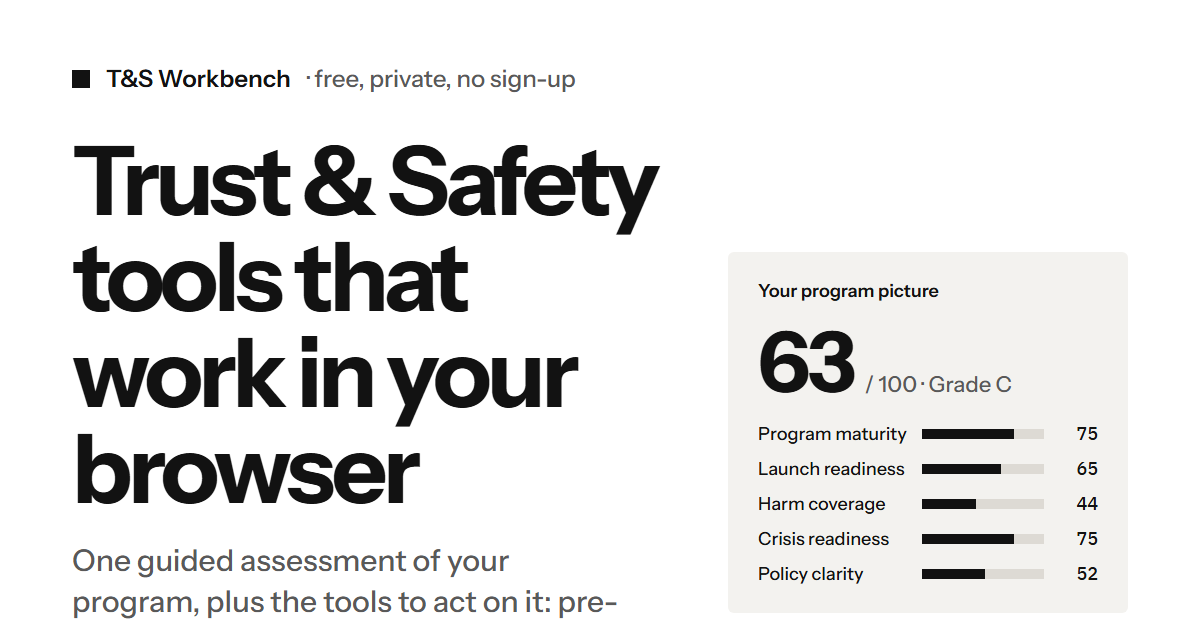
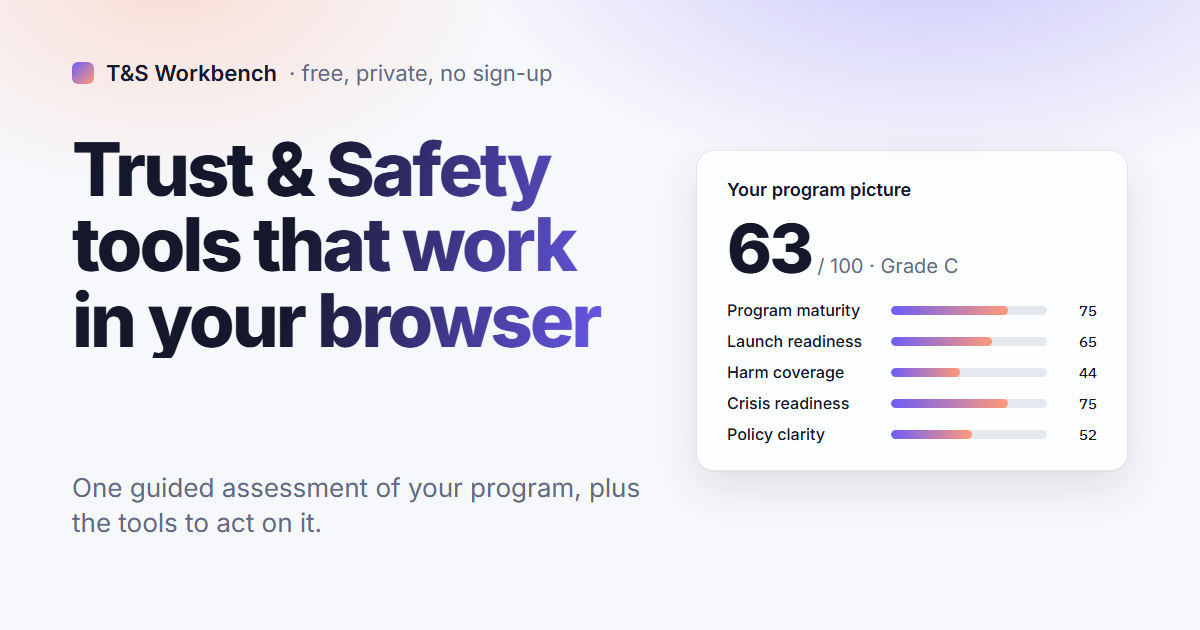
Link-preview cards on the Aurora look, with their HTML sources
docs/og-image.png and the personal site's og-image.png are rendered from tools/screenshots/og-*.html at 1200x630. The workbench card no longer clips its last line.

diff --git a/tools/screenshots/og-workbench.html b/tools/screenshots/og-workbench.html
@@ -1,0 +1,35 @@
+<!doctype html><html lang="en"><head><meta charset="utf-8"><title>og</title>
+<link rel="stylesheet" href="https://fonts.googleapis.com/css2?family=Inter:wght@400;500;600;700;800&family=IBM+Plex+Mono:wght@500&display=swap">
+<style>
+html,body{margin:0;width:1200px;height:630px;overflow:hidden}
+body{font-family:Inter,sans-serif;color:#15172B;background:
+  radial-gradient(760px 420px at 78% -12%, rgba(109,93,246,.32), transparent 62%),
+  radial-gradient(560px 360px at 14% -4%, rgba(255,160,120,.30), transparent 60%),#F7F8FC;position:relative}
+.top{position:absolute;left:72px;top:60px;display:flex;align-items:center;gap:12px;font-size:22px;font-weight:600}
+.top i{width:22px;height:22px;border-radius:6px;background:linear-gradient(135deg,#6D5DF6,#FF9A7A)}
+.top span{color:#636A85;font-weight:400}
+h1{position:absolute;left:72px;top:132px;width:560px;margin:0;font-size:74px;line-height:1.02;letter-spacing:-.04em;font-weight:800;
+  background:linear-gradient(100deg,#15172B 40%,#6D5DF6 100%);-webkit-background-clip:text;background-clip:text;color:transparent}
+p{position:absolute;left:72px;top:470px;width:600px;margin:0;font-size:26px;line-height:1.35;color:#636A85}
+.card{position:absolute;right:72px;top:150px;width:370px;padding:28px 30px 26px;background:rgba(255,255,255,.78);border:1px solid rgba(21,23,43,.10);border-radius:18px;box-shadow:0 1px 1px rgba(21,23,43,.04),0 18px 44px rgba(21,23,43,.10)}
+.card h2{margin:0 0 14px;font-size:18px;font-weight:600}
+.score{font-size:68px;font-weight:800;letter-spacing:-.04em;line-height:1}
+.score small{font-size:20px;font-weight:400;color:#636A85;letter-spacing:0;margin-left:6px}
+.rows{margin-top:18px;display:grid;gap:11px}
+.rows div{display:grid;grid-template-columns:150px 1fr 36px;gap:14px;align-items:center;font-size:16px;font-weight:500}
+.rows i{height:9px;border-radius:999px;background:#E6E8F0;overflow:hidden;display:block}
+.rows i b{display:block;height:100%;border-radius:999px;background:linear-gradient(90deg,#6D5DF6,#FF9A7A);width:var(--w)}
+.rows span{text-align:right;font-family:"IBM Plex Mono",monospace;font-size:15px}
+</style></head><body>
+<div class="top"><i></i>T&amp;S Workbench <span>· free, private, no sign-up</span></div>
+<h1>Trust &amp; Safety tools that work in your browser</h1>
+<p>One guided assessment of your program, plus the tools to act on it.</p>
+<div class="card"><h2>Your program picture</h2><div class="score">63<small>/ 100 · Grade C</small></div>
+<div class="rows">
+<div>Program maturity<i><b style="--w:75%"></b></i><span>75</span></div>
+<div>Launch readiness<i><b style="--w:65%"></b></i><span>65</span></div>
+<div>Harm coverage<i><b style="--w:44%"></b></i><span>44</span></div>
+<div>Crisis readiness<i><b style="--w:75%"></b></i><span>75</span></div>
+<div>Policy clarity<i><b style="--w:52%"></b></i><span>52</span></div>
+</div></div>
+</body></html>

diff --git a/tools/screenshots/og-portfolio.html b/tools/screenshots/og-portfolio.html
@@ -1,0 +1,24 @@
+<!doctype html><html lang="en"><head><meta charset="utf-8"><title>og</title>
+<link rel="stylesheet" href="https://fonts.googleapis.com/css2?family=Inter:wght@400;500;600;700;800&family=IBM+Plex+Mono:wght@500&display=swap">
+<style>
+html,body{margin:0;width:1200px;height:630px;overflow:hidden}
+body{font-family:Inter,sans-serif;color:#15172B;background:
+  radial-gradient(760px 420px at 78% -12%, rgba(109,93,246,.32), transparent 62%),
+  radial-gradient(560px 360px at 14% -4%, rgba(255,160,120,.30), transparent 60%),#F7F8FC;position:relative}
+.top{position:absolute;left:72px;right:72px;top:68px;display:flex;align-items:center;gap:12px;font-size:22px;font-weight:600}
+.top i{width:22px;height:22px;border-radius:6px;background:linear-gradient(135deg,#6D5DF6,#FF9A7A)}
+.top span{margin-left:auto;font-family:"IBM Plex Mono",monospace;font-size:19px;font-weight:500;color:#636A85}
+h1{position:absolute;left:72px;top:160px;margin:0;font-size:104px;line-height:1;letter-spacing:-.045em;font-weight:800;white-space:nowrap;
+  background:linear-gradient(100deg,#15172B 45%,#6D5DF6 100%);-webkit-background-clip:text;background-clip:text;color:transparent}
+p{position:absolute;left:72px;top:300px;width:860px;margin:0;font-size:30px;line-height:1.4;color:#636A85}
+.foot{position:absolute;left:72px;right:72px;bottom:60px;padding-top:26px;border-top:1px solid rgba(21,23,43,.12);display:flex;align-items:center;gap:18px;font-size:22px}
+.foot b{display:flex;align-items:center;gap:10px;font-weight:600}
+.foot b i{width:10px;height:10px;border-radius:50%;background:#1FA971}
+.foot span{color:#636A85}
+.foot em{margin-left:auto;font-style:normal;color:#636A85}
+</style></head><body>
+<div class="top"><i></i>Steven Macchia<span>stevenmacchia.com</span></div>
+<h1>Trust &amp; Safety leader</h1>
+<p>10+ years building Trust &amp; Safety programs from zero to one. Free, open tools for product and safety teams.</p>
+<div class="foot"><b><i></i>Open to roles</b><span>Director · Head of · Senior Trust &amp; Safety</span><em>T&amp;S Workbench · free tools</em></div>
+</body></html>

diff --git a/tools/screenshots/README.md b/tools/screenshots/README.md
@@ -10,3 +10,7 @@ node capture.js vendors.png  # regenerate just one
 ```
 
 Reuses a server on `:8765` or starts one. See `CHROME_PATH`, `PORTFOLIO_IMG_DIR`.
+
+Link-preview cards: `og-workbench.html` and `og-portfolio.html` are the sources. Render each at 1200x630 with the installed Chrome:
+`"C:\Program Files\Google\Chrome\Application\chrome.exe" --headless=new --hide-scrollbars --window-size=1200,630 --virtual-time-budget=8000 --screenshot=out.png file:///<path>/og-workbench.html`
+then copy to `docs/og-image.png` (workbench) or `stevenmacchia.github.io/og-image.png` (portfolio).
